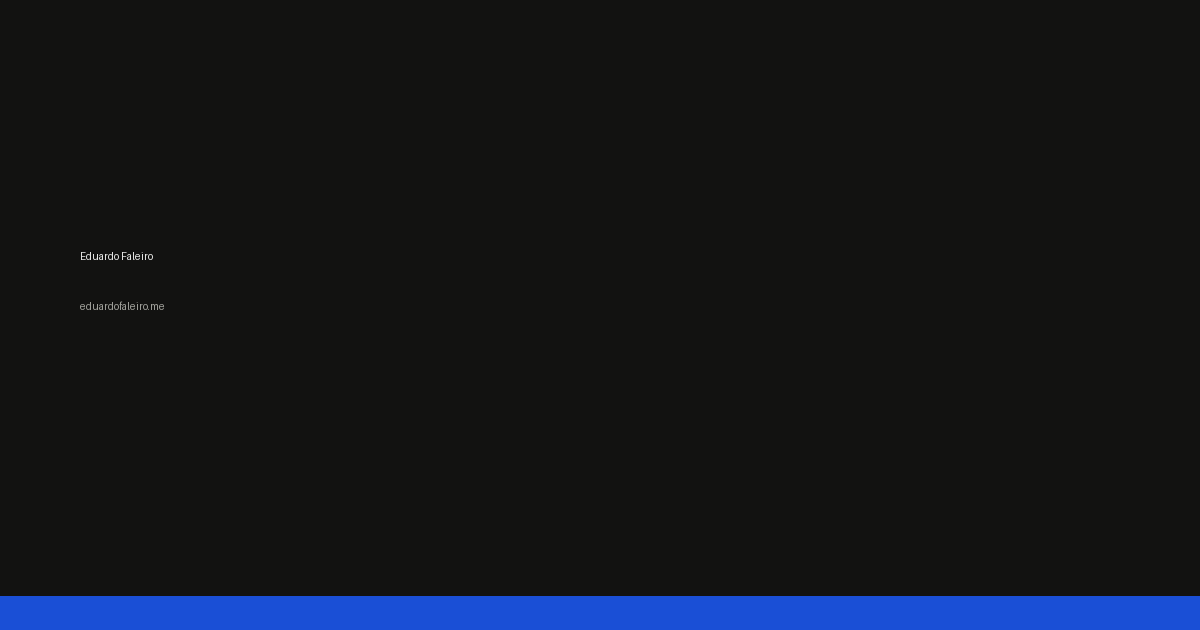
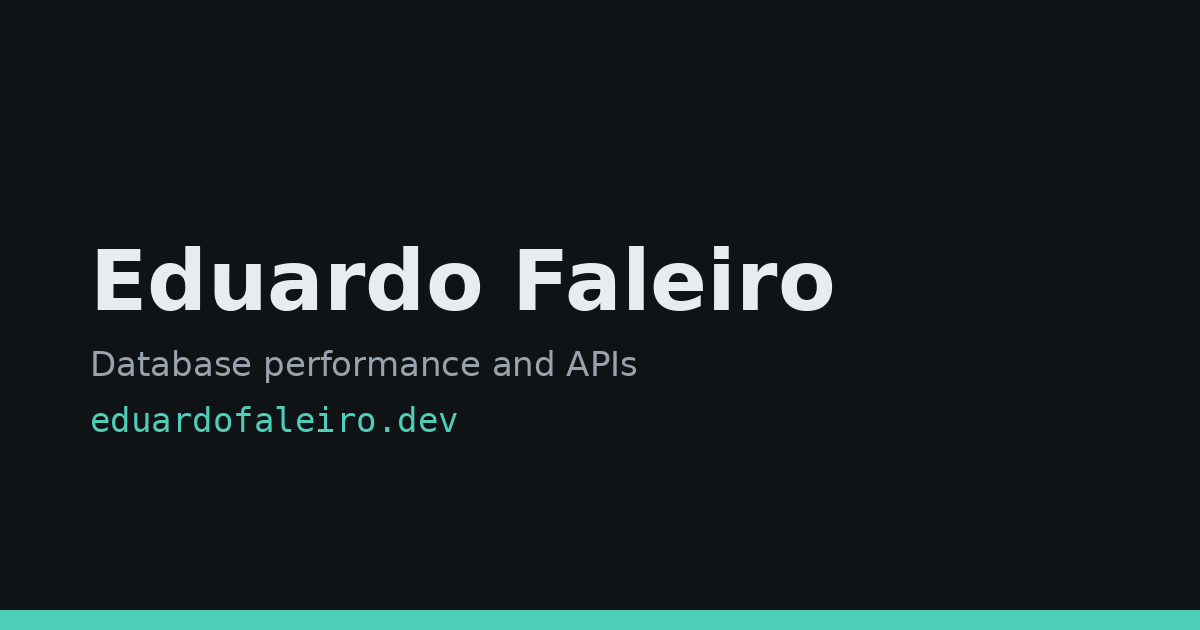
content: dominio eduardofaleiro.dev e post inicial
O dominio comprado foi eduardofaleiro.dev, nao .me. Troca em astro.config
(site), robots.txt (sitemap), package.json, README, AGENTS e nos docs de
design e plano. A imagem OG tinha o dominio antigo gravado nos pixels;
regerada com o dominio novo e as cores do tema Plex.

Remove os posts de placeholder e escreve o "Hello, world" de verdade. O
draft-example.md era uma fixture para provar que rascunhos nao vazam para
producao; essa garantia continua coberta pelos testes de selectPublished,
que exercitam os tres casos (com draft, sem draft e includeDrafts).

Claude-Session: https://claude.ai/code/session_01EmD19aiZ82spqVLxoEAS5Y

diff --git a/docs/superpowers/plans/2026-09-01-personal-site.md b/docs/superpowers/plans/2026-09-01-personal-site.md
@@ -1,4 +1,4 @@
-# Site pessoal eduardofaleiro.me — plano de implementação
+# Site pessoal eduardofaleiro.dev — plano de implementação
 
 > **For agentic workers:** REQUIRED SUB-SKILL: Use superpowers:subagent-driven-development (recommended) or superpowers:executing-plans to implement this plan task-by-task. Steps use checkbox (`- [ ]`) syntax for tracking.
 
@@ -15,7 +15,7 @@
 - Todo o **conteúdo visível do site é em inglês** (textos de interface, bio, posts, `lang="en"`). Este plano e os commits são em português.
 - Node 22 (ambiente atual: v22.23.1, npm 10.9.8).
 - TypeScript em modo `strict`.
-- `site` em `astro.config.mjs` é exatamente `https://eduardofaleiro.me`.
+- `site` em `astro.config.mjs` é exatamente `https://eduardofaleiro.dev`.
 - Sem Tailwind, sem framework de UI, sem JS no cliente. CSS puro com custom properties.
 - Zero dependências além das listadas em Tech Stack.
 - Rascunhos (`draft: true`) nunca aparecem em build de produção nem no RSS.
@@ -63,7 +63,7 @@
 O diretório do projeto já contém `docs/` e `.git/`, então não scaffoldamos direto nele.
 
 ```bash
-cd /home/bridge/Documents/personal-projects/eduardofaleiro.me
+cd /home/bridge/Documents/personal-projects/eduardofaleiro
 SCRATCH="$(mktemp -d)"
 npm create astro@latest "$SCRATCH/site" -- \
   --template minimal --install --no-git --typescript strict --skip-houston
@@ -92,7 +92,7 @@ import { defineConfig } from 'astro/config';
 import sitemap from '@astrojs/sitemap';
 
 export default defineConfig({
-  site: 'https://eduardofaleiro.me',
+  site: 'https://eduardofaleiro.dev',
   integrations: [sitemap()],
 });
 ```
@@ -1145,7 +1145,7 @@ Crie `public/robots.txt`:
 User-agent: *
 Allow: /
 
-Sitemap: https://eduardofaleiro.me/sitemap-index.xml
+Sitemap: https://eduardofaleiro.dev/sitemap-index.xml
 ```
 
 - [ ] **Step 3: Criar o favicon**
@@ -1171,7 +1171,7 @@ img = Image.new("RGB", (1200, 630), "#121211")
 d = ImageDraw.Draw(img)
 d.rectangle([0, 596, 1200, 630], fill="#1a4fd6")
 d.text((80, 250), "Eduardo Faleiro", fill="#ececeb")
-d.text((80, 300), "eduardofaleiro.me", fill="#a3a39d")
+d.text((80, 300), "eduardofaleiro.dev", fill="#a3a39d")
 img.save("public/og-default.png")
 PY
 python3 -c "from PIL import Image; print(Image.open('public/og-default.png').size)"
@@ -1240,7 +1240,7 @@ O restante do arquivo (de `<body>` até `</html>`) fica inalterado.
 npm run check && npm run build
 grep -q '<item>' dist/rss.xml && echo "OK feed tem item"
 grep -q 'Draft example' dist/rss.xml && echo "FALHA: rascunho no feed" || echo "OK rascunho fora do feed"
-grep -q 'https://eduardofaleiro.me/blog/hello-world/' dist/rss.xml && echo "OK link absoluto"
+grep -q 'https://eduardofaleiro.dev/blog/hello-world/' dist/rss.xml && echo "OK link absoluto"
 test -f dist/sitemap-index.xml && echo "OK sitemap"
 grep -q 'og:image' dist/index.html && echo "OK open graph"
 grep -q 'rel="canonical"' dist/blog/hello-world/index.html && echo "OK canonical"
@@ -1272,7 +1272,7 @@ git commit -m "feat: RSS, sitemap, robots, favicon e metadados de compartilhamen
 Crie `README.md`:
 
 ```markdown
-# eduardofaleiro.me
+# eduardofaleiro.dev
 
 Personal site: short bio, social links, and a blog. Static site built with
 Astro, deployed on Vercel.
@@ -1318,7 +1318,7 @@ Push to `main` deploys to production. Every other branch gets a preview URL.
 
 ### DNS
 
-In the domain registrar for `eduardofaleiro.me`:
+In the domain registrar for `eduardofaleiro.dev`:
 
 | Type | Name | Value |
 |---|---|---|
@@ -1332,7 +1332,7 @@ Confirm these values against the exact records Vercel shows under
 - [ ] **Step 2: Publicar o repositório no GitHub**
 
 ```bash
-gh repo create eduardofaleiro.me --private --source=. --remote=origin --push
+gh repo create eduardofaleiro.dev --private --source=. --remote=origin --push
 ```
 
 Se o `gh` não estiver autenticado, rode `gh auth login` antes (é um comando interativo — o Eduardo executa).
@@ -1347,11 +1347,11 @@ Esperado: o workflow `CI` com conclusão `success`.
 
 - [ ] **Step 4: Criar o projeto na Vercel**
 
-Passo do Eduardo, no navegador: em vercel.com, **Add New → Project**, importar o repositório `eduardofaleiro.me`. A Vercel detecta Astro sozinha — framework preset `Astro`, build `npm run build`, output `dist`. Confirmar e fazer o primeiro deploy.
+Passo do Eduardo, no navegador: em vercel.com, **Add New → Project**, importar o repositório `eduardofaleiro.dev`. A Vercel detecta Astro sozinha — framework preset `Astro`, build `npm run build`, output `dist`. Confirmar e fazer o primeiro deploy.
 
 - [ ] **Step 5: Apontar o domínio**
 
-Passo do Eduardo: em **Project → Settings → Domains**, adicionar `eduardofaleiro.me`, e criar no registrador os registros que a Vercel exibir (conferindo contra a tabela do README).
+Passo do Eduardo: em **Project → Settings → Domains**, adicionar `eduardofaleiro.dev`, e criar no registrador os registros que a Vercel exibir (conferindo contra a tabela do README).
 
 - [ ] **Step 6: Trocar os placeholders por conteúdo real**
 

diff --git a/docs/superpowers/specs/2026-09-01-personal-site-design.md b/docs/superpowers/specs/2026-09-01-personal-site-design.md
@@ -1,4 +1,4 @@
-# Site pessoal eduardofaleiro.me — design
+# Site pessoal eduardofaleiro.dev — design
 
 Data: 2026-09-01
 Status: aprovado (design); pendente plano de implementação
@@ -116,7 +116,7 @@ mecanismo de correção do projeto.
   como imagem padrão.
 - Sitemap via `@astrojs/sitemap`; `robots.txt` liberando tudo e apontando o
   sitemap.
-- `site` configurado em `astro.config.mjs` como `https://eduardofaleiro.me`,
+- `site` configurado em `astro.config.mjs` como `https://eduardofaleiro.dev`,
   necessário para canonical, sitemap e RSS gerarem URLs absolutas.
 
 ## Verificação
@@ -146,7 +146,7 @@ necessária é a 404.
 1. `git init` + primeiro commit; repositório no GitHub.
 2. Projeto na Vercel conectado ao repo. Push na `main` publica; branches geram
    preview.
-3. Domínio `eduardofaleiro.me` apontado para a Vercel — **passo do Eduardo**,
+3. Domínio `eduardofaleiro.dev` apontado para a Vercel — **passo do Eduardo**,
    por envolver contas dele. A implementação entrega o projeto pronto até esse
    ponto, com os registros DNS exatos documentados no README.
 

diff --git a/src/content/blog/hello-world.md b/src/content/blog/hello-world.md
@@ -1,11 +1,20 @@
 ---
 title: "Hello, world"
-description: "Why I built this site and what I plan to write about here."
-pubDate: 2026-09-01
+description: "Why I built this site, and what I plan to write here."
+pubDate: 2026-09-02
 tags: ["meta"]
 ---
 
-This is the first post on my site. I set it up to have a place of my own for
-notes on the things I build.
+I spend most of my time making systems faster: query plans, indexes, and the
+APIs that sit on top of them. A lot of what I learn doing that ends up in a
+pull request comment or a Slack thread, where it is effectively gone a week
+later.
 
-More soon.
+This site is where I am going to put it instead.
+
+Expect posts about PostgreSQL — execution plans, indexing decisions, the
+difference between a query that is slow and a query that is slow *sometimes* —
+and about designing APIs in Python and Java that stay honest under load. Short
+and concrete, closer to a notebook entry than an article.
+
+No schedule, no newsletter. Just notes, published where I can find them again.

diff --git a/README.md b/README.md
@@ -1,4 +1,4 @@
-# eduardofaleiro.me
+# eduardofaleiro.dev
 
 Personal site: short bio, social links, and a blog. Static site built with
 Astro, deployed on Vercel.
@@ -50,7 +50,7 @@ Push to `main` deploys to production. Every other branch gets a preview URL.
 
 ### DNS
 
-In the domain registrar for `eduardofaleiro.me`:
+In the domain registrar for `eduardofaleiro.dev`:
 
 | Type | Name | Value |
 |---|---|---|

diff --git a/AGENTS.md b/AGENTS.md
@@ -1,4 +1,4 @@
-# eduardofaleiro.me
+# eduardofaleiro.dev
 
 A static Astro site: personal blog plus social links, deployed on Vercel.
 
